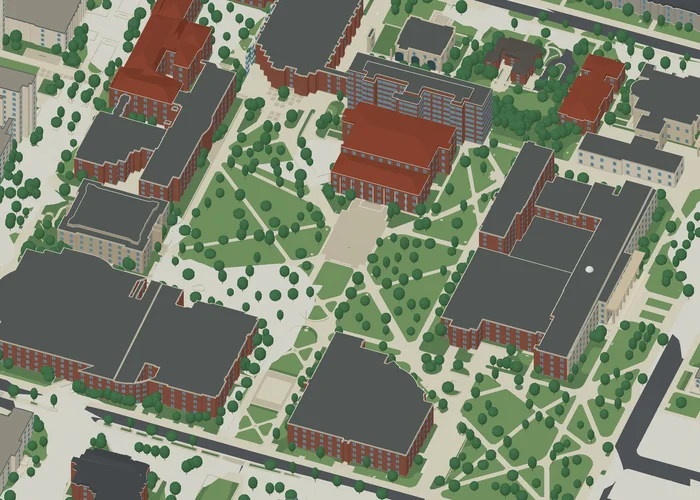
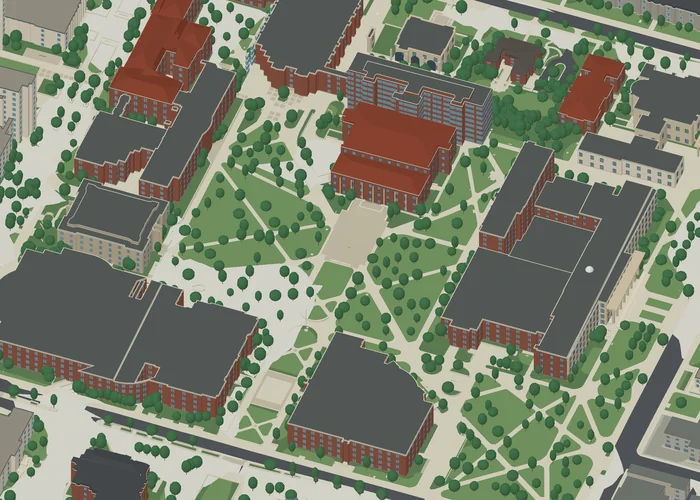
Release 26.10.16.4

diff --git a/index.html b/index.html
@@ -1,7 +1,7 @@
 <!doctype html>
 <html lang="en"><head><meta charset="utf-8"><meta name="viewport" content="width=device-width,initial-scale=1"><meta name="color-scheme" content="light"><meta name="theme-color" content="#f7f8f8">
 <title>Campus 3D Models | Explore Four University Campuses</title><meta name="description" content="Explore UChicago, UMich, UW and UC Santa Barbara through interactive 3D campus models. Discover architecture, landscapes, and layered Rhino and 3DS downloads."><meta name="robots" content="index,follow,max-image-preview:large"><link rel="canonical" href="https://arch.songming.org/">
-<meta property="og:type" content="website"><meta property="og:site_name" content="Campus 3D Models"><meta property="og:title" content="Campus 3D Models"><meta property="og:description" content="Four campuses. A different perspective. Explore UChicago, UMich, UW and UC Santa Barbara in 3D."><meta property="og:url" content="https://arch.songming.org/"><meta property="og:locale" content="en_US"><meta property="og:locale:alternate" content="zh_CN"><meta property="og:image" content="https://arch.songming.org/assets/images/social-preview.png?v=26.10.16.2"><meta property="og:image:width" content="1200"><meta property="og:image:height" content="630"><meta property="og:image:alt" content="Four architectural campus model previews from the Campus 3D Models collection."><meta name="twitter:card" content="summary_large_image"><meta name="twitter:title" content="Campus 3D Models"><meta name="twitter:description" content="Four campuses. A different perspective."><meta name="twitter:image" content="https://arch.songming.org/assets/images/social-preview.png?v=26.10.16.2">
+<meta property="og:type" content="website"><meta property="og:site_name" content="Campus 3D Models"><meta property="og:title" content="Campus 3D Models"><meta property="og:description" content="Four campuses. A different perspective. Explore UChicago, UMich, UW and UC Santa Barbara in 3D."><meta property="og:url" content="https://arch.songming.org/"><meta property="og:locale" content="en_US"><meta property="og:locale:alternate" content="zh_CN"><meta property="og:image" content="https://arch.songming.org/assets/images/social-preview.png?v=26.10.16.4"><meta property="og:image:width" content="1200"><meta property="og:image:height" content="630"><meta property="og:image:alt" content="Four architectural campus model previews from the Campus 3D Models collection."><meta name="twitter:card" content="summary_large_image"><meta name="twitter:title" content="Campus 3D Models"><meta name="twitter:description" content="Four campuses. A different perspective."><meta name="twitter:image" content="https://arch.songming.org/assets/images/social-preview.png?v=26.10.16.4">
 <link rel="icon" type="image/svg+xml" href="assets/brand/atlas.svg"><link rel="icon" type="image/png" sizes="32x32" href="assets/brand/icon-32.png"><link rel="apple-touch-icon" href="assets/brand/apple-touch-icon.png"><link rel="stylesheet" href="assets/site.css?v=26.10.16.3"><script defer src="assets/site.js"></script><script type="application/ld+json" id="schema">{"@context":"https://schema.org","@graph":[{"@type":"WebSite","@id":"https://arch.songming.org/#website","url":"https://arch.songming.org/","name":"Campus 3D Models","inLanguage":["en","zh-CN"]},{"@type":"CollectionPage","@id":"https://arch.songming.org/#collection","url":"https://arch.songming.org/","name":"Campus 3D Models","description":"Explore interactive 3D campus models of UChicago, UMich, UW and UC Santa Barbara.","isPartOf":{"@id":"https://arch.songming.org/#website"},"mainEntity":{"@type":"ItemList","numberOfItems":4,"itemListElement":[{"@type":"ListItem","position":1,"name":"University of Chicago","url":"https://uchi.arch.songming.org/"},{"@type":"ListItem","position":2,"name":"University of Michigan","url":"https://umich.arch.songming.org/"},{"@type":"ListItem","position":3,"name":"University of Washington","url":"https://uw.arch.songming.org/"},{"@type":"ListItem","position":4,"name":"UC Santa Barbara","url":"https://ucsb.arch.songming.org/"}]}}]}</script></head>
 <body id="top">
 <a href="#campuses" class="skip-link" data-i18n="skip">Skip to campus collection</a>
@@ -10,12 +10,12 @@
 <section class="introduction page-width" aria-labelledby="hero-title"><div class="intro-title"><p class="eyebrow" data-i18n="eyebrow">Independent campus studies</p><h1 id="hero-title"><span data-i18n="heroFirst">Campus,</span><span data-i18n="heroLast">in three dimensions.</span></h1></div><div class="intro-copy"><p data-i18n="intro">An evolving collection of university campuses, studied through their buildings, landscapes and the spaces between.</p><a href="#campuses" class="text-link"><span class="big-number">4</span> <span data-i18n="count">campuses to explore</span><span aria-hidden="true">↓</span></a></div></section>
 <section class="collection page-width" id="campuses" aria-labelledby="collection-title"><div class="section-heading"><h2 id="collection-title" data-i18n="sectionLabel">The collection</h2><span data-i18n="sectionNumber">01—04 / CAMPUS MODELS</span></div><div class="campus-grid"><a class="campus-card" href="https://uchi.arch.songming.org/" target="_blank" rel="noopener" data-campus="uchi" id="project-uchi" aria-label="View University of Chicago model (opens in a new tab)">
  <div class="project-line"><span class="project-number">01</span><span data-i18n="uchi.location">Chicago, Illinois</span><span class="project-mark" aria-hidden="true"><svg viewBox="0 0 24 24" aria-hidden="true"><path d="M5 19 19 5M5 5h14v14"/></svg></span></div>
- <div class="card-image"><img src="assets/images/uchi-small.webp" srcset="assets/images/uchi-small.webp 700w, assets/images/uchi.webp 1400w" sizes="(max-width: 700px) 100vw, 50vw" width="1400" height="1000" alt="3D exterior model of the University of Chicago campus" loading="lazy" decoding="async"></div>
+ <div class="card-image"><img src="assets/images/uchi-small.webp?v=26.10.16.4" srcset="assets/images/uchi-small.webp?v=26.10.16.4 700w, assets/images/uchi.webp?v=26.10.16.4 1400w" sizes="(max-width: 700px) 100vw, 50vw" width="1400" height="1000" alt="3D exterior model of the University of Chicago campus" loading="lazy" decoding="async"></div>
  <div class="project-caption"><h3 data-i18n="uchi.name">University of Chicago</h3><span data-i18n="uchi.campus">Hyde Park campus</span></div>
  <p class="project-features" data-i18n="uchi.features">Main Quads · Midway Plaisance · Architectural landmarks</p><span class="project-link"><span data-i18n="open">View model</span><span class="model-arrow" aria-hidden="true"><svg viewBox="0 0 16 24" width="16" height="24" focusable="false"><path d="M3 18 13 7M5.5 7H13v7.5"/></svg></span></span>
 </a><a class="campus-card" href="https://umich.arch.songming.org/" target="_blank" rel="noopener" data-campus="umich" id="project-umich" aria-label="View University of Michigan model (opens in a new tab)">
  <div class="project-line"><span class="project-number">02</span><span data-i18n="umich.location">Ann Arbor, Michigan</span><span class="project-mark" aria-hidden="true"><svg viewBox="0 0 24 24" aria-hidden="true"><path d="M5 19 19 5M5 5h14v14"/></svg></span></div>
- <div class="card-image"><img src="assets/images/umich-small.webp" srcset="assets/images/umich-small.webp 700w, assets/images/umich.webp 1400w" sizes="(max-width: 700px) 100vw, 50vw" width="1400" height="1000" alt="3D exterior model of the University of Michigan campus" loading="lazy" decoding="async"></div>
+ <div class="card-image"><img src="assets/images/umich-small.webp?v=26.10.16.4" srcset="assets/images/umich-small.webp?v=26.10.16.4 700w, assets/images/umich.webp?v=26.10.16.4 1400w" sizes="(max-width: 700px) 100vw, 50vw" width="1400" height="1000" alt="3D exterior model of the University of Michigan campus" loading="lazy" decoding="async"></div>
  <div class="project-caption"><h3 data-i18n="umich.name">University of Michigan</h3><span data-i18n="umich.campus">Ann Arbor campus</span></div>
  <p class="project-features" data-i18n="umich.features">The Diag · North Campus · Medical & Athletic campuses</p><span class="project-link"><span data-i18n="open">View model</span><span class="model-arrow" aria-hidden="true"><svg viewBox="0 0 16 24" width="16" height="24" focusable="false"><path d="M3 18 13 7M5.5 7H13v7.5"/></svg></span></span>
 </a><a class="campus-card" href="https://uw.arch.songming.org/" target="_blank" rel="noopener" data-campus="uw" id="project-uw" aria-label="View University of Washington model (opens in a new tab)">
@@ -25,7 +25,7 @@
  <p class="project-features" data-i18n="uw.features">Red Square · The Quad · Lakefront landscapes</p><span class="project-link"><span data-i18n="open">View model</span><span class="model-arrow" aria-hidden="true"><svg viewBox="0 0 16 24" width="16" height="24" focusable="false"><path d="M3 18 13 7M5.5 7H13v7.5"/></svg></span></span>
 </a><a class="campus-card" href="https://ucsb.arch.songming.org/" target="_blank" rel="noopener" data-campus="ucsb" id="project-ucsb" aria-label="View UC Santa Barbara model (opens in a new tab)">
  <div class="project-line"><span class="project-number">04</span><span data-i18n="ucsb.location">Santa Barbara, California</span><span class="project-mark" aria-hidden="true"><svg viewBox="0 0 24 24" aria-hidden="true"><path d="M5 19 19 5M5 5h14v14"/></svg></span></div>
- <div class="card-image"><img src="assets/images/ucsb-small.webp" srcset="assets/images/ucsb-small.webp 700w, assets/images/ucsb.webp 1400w" sizes="(max-width: 700px) 100vw, 50vw" width="1400" height="1000" alt="3D exterior model of the UC Santa Barbara campus" loading="lazy" decoding="async"></div>
+ <div class="card-image"><img src="assets/images/ucsb-small.webp?v=26.10.16.4" srcset="assets/images/ucsb-small.webp?v=26.10.16.4 700w, assets/images/ucsb.webp?v=26.10.16.4 1400w" sizes="(max-width: 700px) 100vw, 50vw" width="1400" height="1000" alt="3D exterior model of the UC Santa Barbara campus" loading="lazy" decoding="async"></div>
  <div class="project-caption"><h3 data-i18n="ucsb.name">UC Santa Barbara</h3><span data-i18n="ucsb.campus">Coastal campus</span></div>
  <p class="project-features" data-i18n="ucsb.features">Campus Lagoon · Pacific coast · Isla Vista</p><span class="project-link"><span data-i18n="open">View model</span><span class="model-arrow" aria-hidden="true"><svg viewBox="0 0 16 24" width="16" height="24" focusable="false"><path d="M3 18 13 7M5.5 7H13v7.5"/></svg></span></span>
 </a></div></section>

diff --git a/scripts/render_umich_preview.py b/scripts/render_umich_preview.py
@@ -23,8 +23,14 @@ scale = w / 410.
 projection = np.column_stack(((vertices-center) @ right, (vertices-center) @ up, (vertices-center) @ back))
 screen = np.column_stack((projection[:,0]*scale+w/2, -projection[:,1]*scale+h/2))
 # Keep complete crossing triangles; screen/depth clipping retains correct occlusion.
-triangle_screen = screen[faces]
-mask = (triangle_screen[:,:,0].max(axis=1)>=0)&(triangle_screen[:,:,0].min(axis=1)<w)&(triangle_screen[:,:,1].max(axis=1)>=0)&(triangle_screen[:,:,1].min(axis=1)<h)
+# Clip in bounded blocks: only the Diag view needs rasterization, even when
+# the full campus/context archive contains millions of triangles.
+mask = np.empty(len(faces), dtype=bool)
+for start in range(0, len(faces), 200_000):
+    stop = min(start + 200_000, len(faces))
+    triangle_screen = screen[faces[start:stop]]
+    mask[start:stop] = (triangle_screen[:,:,0].max(axis=1)>=0)&(triangle_screen[:,:,0].min(axis=1)<w)&(triangle_screen[:,:,1].max(axis=1)>=0)&(triangle_screen[:,:,1].min(axis=1)<h)
+del triangle_screen
 faces, colors = faces[mask], colors[mask]
 tri = vertices[faces]
 normals = np.cross(tri[:,1]-tri[:,0], tri[:,2]-tri[:,0]); normals /= np.maximum(np.linalg.norm(normals,axis=1)[:,None],1e-10)

diff --git a/docs/ASSET_SOURCES.md b/docs/ASSET_SOURCES.md
@@ -2,9 +2,9 @@
 
 Campus previews are exported renders from the corresponding local campus projects. They are used here as static navigation previews; interactive models remain on their own websites. The images are cropped/resized and encoded as WebP. Their original geometry and source attribution remain documented in each campus project.
 
[7 lines of base64/hex data omitted]
 
 The website uses system Helvetica/Arial and Chinese system fonts. Manrope is retained for raster share-image generation under the SIL Open Font License. Legacy font assets keep their accompanying licenses. The monochrome atlas mark is an original SVG made for this project.

diff --git a/CHANGELOG.md b/CHANGELOG.md
@@ -1,5 +1,11 @@
 # Changelog
 
+## 26.10.16.4 — 2026-10-16
+
+- Refresh UChicago, UMich and UC Santa Barbara desktop/mobile previews and share-image tiles from the latest complete original CAD geometry, preserving their established cameras and crops.
+- Use full-resolution model geometry for this preview refresh; bypass regional LOD and campus-only browsing derivatives in the temporary UCSB capture. Keep the live campus performance optimizations intact.
+- Bound temporary triangle-projection allocations in the UMich offline preview renderer while preserving the same complete source geometry and output. Refresh image cache versions and source/model provenance.
+
 ## 26.10.16.3 — 2026-10-16
 
 - Keep the header and footer Campus 3D Models wordmarks in the same font family in English and Chinese, independent of the Chinese body font. Refresh the stylesheet cache version.
